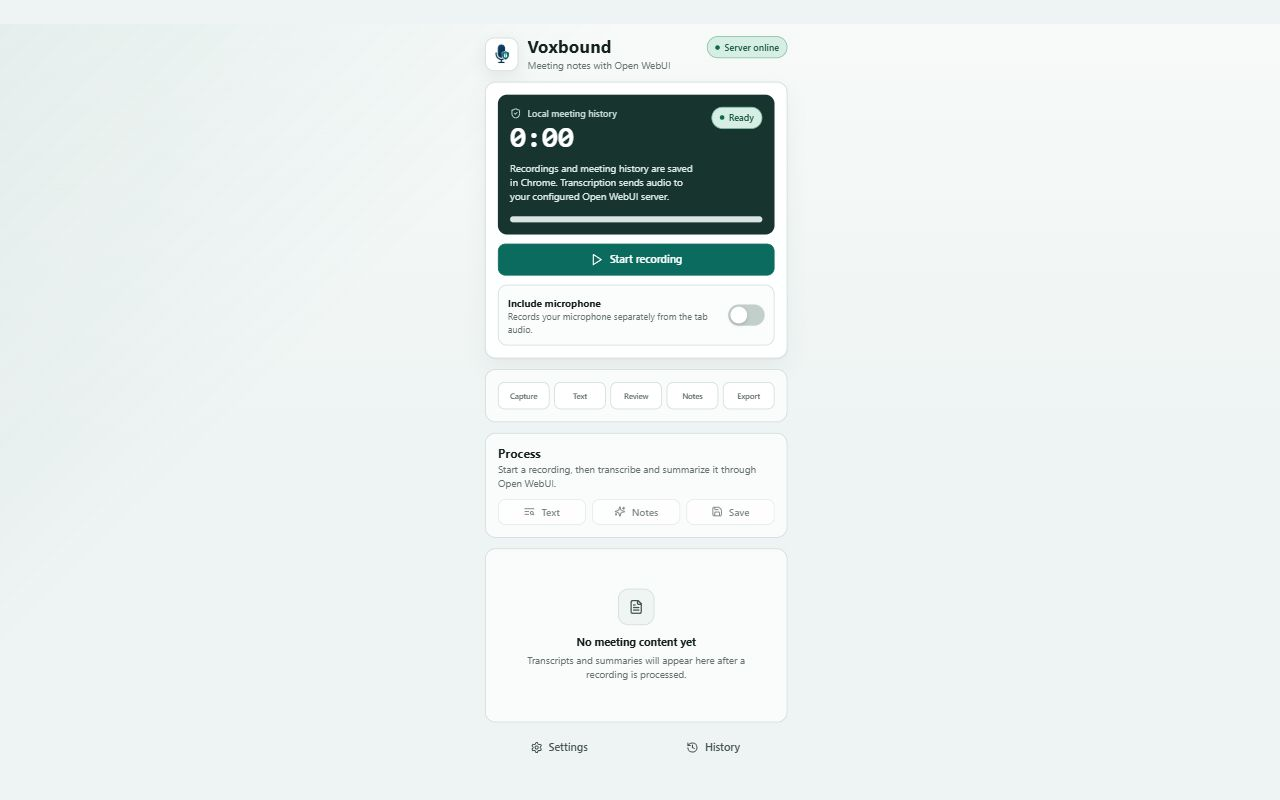
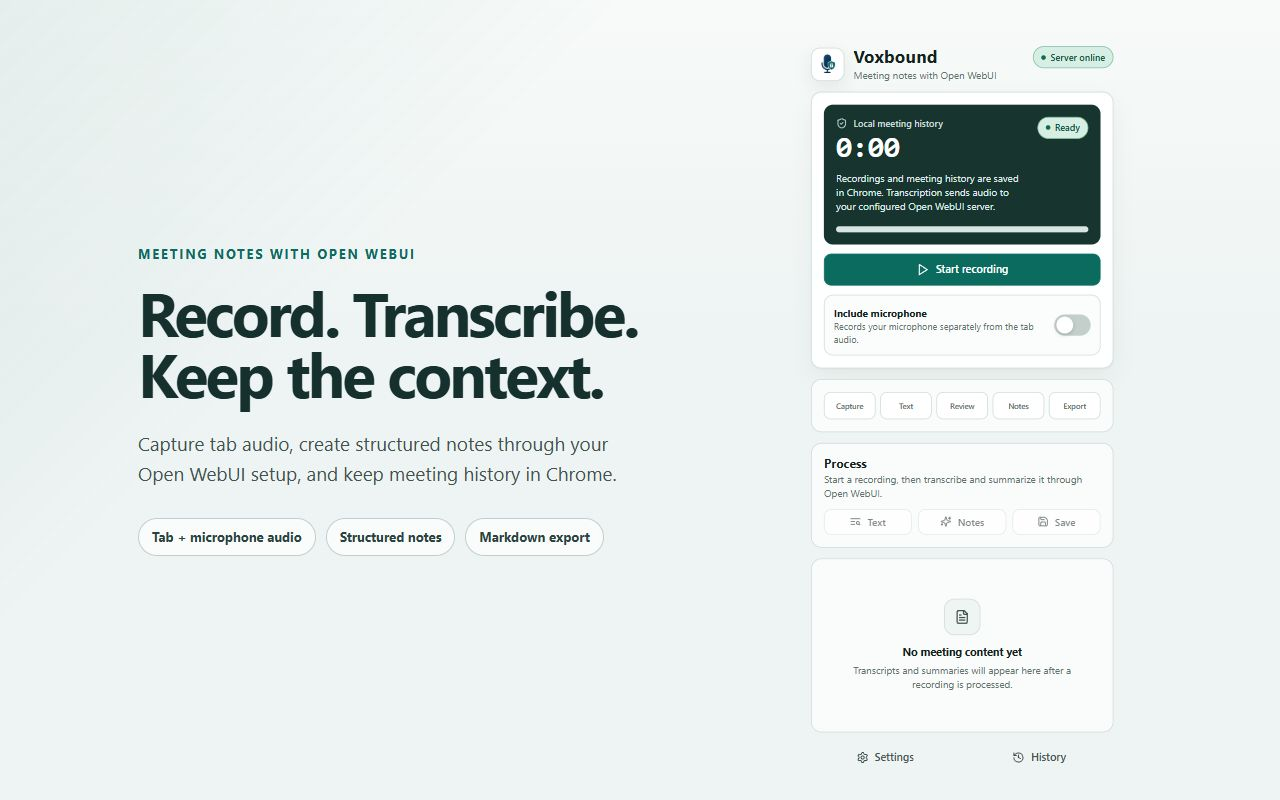
Refactor Chrome Web Store screenshot layout

diff --git a/extension/dev/popup-preview.html b/extension/dev/popup-preview.html
@@ -11,16 +11,100 @@
         overflow: hidden;
       }
 
+      .store-frame {
+        box-sizing: border-box;
+        width: 100vw;
+        height: 100vh;
+        display: grid;
+        grid-template-columns: minmax(0, 560px) 352px;
+        align-items: center;
+        justify-content: center;
+        gap: 92px;
+        padding: 0 72px;
+      }
+
+      .store-copy {
+        align-self: center;
+      }
+
+      .store-eyebrow {
+        margin: 0 0 18px;
+        color: #0b6b5f;
+        font-size: 13px;
+        font-weight: 750;
+        letter-spacing: 0.14em;
+        text-transform: uppercase;
+      }
+
+      .store-title {
+        max-width: 520px;
+        margin: 0;
+        color: #16302d;
+        font-size: 62px;
+        font-weight: 760;
+        letter-spacing: -0.045em;
+        line-height: 0.98;
+      }
+
+      .store-description {
+        max-width: 500px;
+        margin: 26px 0 0;
+        color: #43524f;
+        font-size: 19px;
+        line-height: 1.55;
+      }
+
+      .store-features {
+        display: flex;
+        flex-wrap: wrap;
+        gap: 10px;
+        margin-top: 30px;
+      }
+
+      .store-feature {
+        border: 1px solid #bfd0cc;
+        border-radius: 999px;
+        background: rgba(255, 255, 255, 0.72);
+        color: #29433f;
+        font-size: 13px;
+        font-weight: 650;
+        padding: 8px 13px;
+      }
+
+      .preview-stage {
+        position: relative;
+        width: 352px;
+        height: 760px;
+      }
+
       #root {
+        position: absolute;
+        top: 14px;
+        left: 50%;
         width: 440px;
-        margin: 24px auto 0;
-        transform: scale(0.76);
+        transform: translateX(-50%) scale(0.76);
         transform-origin: top center;
       }
     </style>
   </head>
   <body>
-    <div id="root"></div>
+    <main class="store-frame">
+      <section class="store-copy" aria-label="Voxbound overview">
+        <p class="store-eyebrow">Meeting notes with Open WebUI</p>
+        <h1 class="store-title">Record. Transcribe. Keep the context.</h1>
+        <p class="store-description">
+          Capture tab audio, create structured notes through your Open WebUI setup, and keep meeting history in Chrome.
+        </p>
+        <div class="store-features" aria-label="Key features">
+          <span class="store-feature">Tab + microphone audio</span>
+          <span class="store-feature">Structured notes</span>
+          <span class="store-feature">Markdown export</span>
+        </div>
+      </section>
+      <section class="preview-stage" aria-label="Voxbound extension preview">
+        <div id="root"></div>
+      </section>
+    </main>
     <script>
       (() => {
         const settings = {
